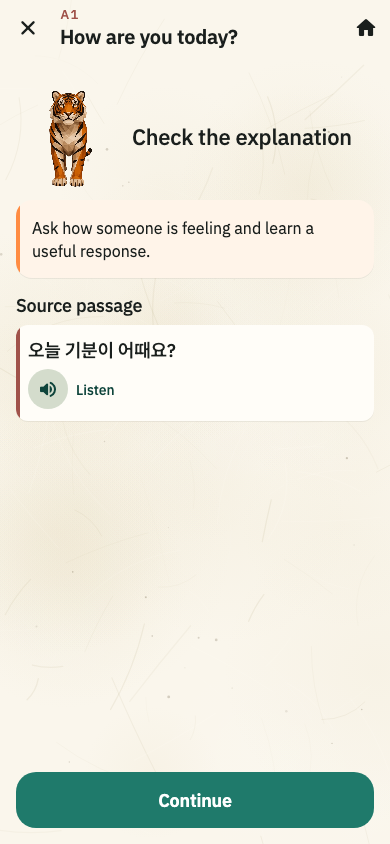
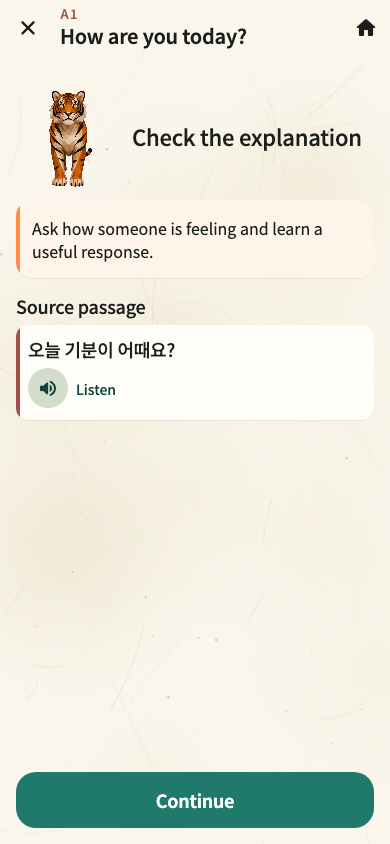
style(type): use Noto Sans KR across Korean English and German UI

diff --git a/test/font_bundle_guard_test.dart b/test/font_bundle_guard_test.dart
@@ -4,32 +4,33 @@ import 'dart:typed_data';
 import 'package:flutter_test/flutter_test.dart';
 import 'package:ko_lernen_app/widgets/sori/tokens.dart';
 
-/// 라틴 UI와 한글 폴백의 글리프가 실제 번들에 있는지 검사한다.
+/// 앱의 단일 Noto Sans KR 번들에 라틴·한글 글리프가 모두 있는지 검사한다.
 ///
 /// 2026-08-19 발견: `PretendardStd-*.otf` 5개가 라틴 전용 서브셋이라 한글 글리프가
 /// 0개였고, 한국어 전부가 OS 폴백 폰트로 그려지고 있었다. pubspec 주석은
 /// "한국어 모던 산세리프"라고 적혀 있었다. 의존성 없이 OTF `cmap`(format 4/12)을
-/// 직접 읽어 Plex의 독일어와 Noto의 완성형 한글을 검사한다.
+/// 직접 읽어 독일어와 완성형 한글을 검사한다.
 void main() {
-  test('Latin UI uses Plex and Korean falls back to bundled Noto', () {
-    expect(SoriFonts.sans, 'IBMPlexSans');
+  test('Korean, German and English UI use one bundled Noto face', () {
+    expect(SoriFonts.sans, 'NotoSansKR');
     expect(SoriFonts.korean, 'NotoSansKR');
     expect(SoriFonts.culture, SoriFonts.korean);
-    expect(SoriFonts.fallback, [SoriFonts.korean]);
+    expect(SoriFonts.fallback, isEmpty);
   });
 
-  test('pubspec 폰트는 독일어와 한글 폴백 글리프를 포함한다', () {
+  test('pubspec 단일 폰트는 독일어와 한글 글리프를 포함한다', () {
     final pubspec = File('pubspec.yaml').readAsStringSync();
     final assets = RegExp(
       r'asset:\s*(assets/fonts/\S+\.(?:otf|ttf))',
     ).allMatches(pubspec).map((m) => m.group(1)!).toList();
-    expect(assets, isNotEmpty, reason: 'pubspec fonts: 블록이 비어 있다');
-    expect(
-      assets,
-      contains('assets/fonts/IBMPlexSans/IBMPlexSans-Variable.ttf'),
-    );
-    expect(assets, contains('assets/fonts/NotoSansKR/NotoSansKR-Variable.ttf'));
+    expect(assets, ['assets/fonts/NotoSansKR/NotoSansKR-Variable.ttf']);
     const requiredLatin = <String, int>{
+      'A': 0x41,
+      'a': 0x61,
+      'Z': 0x5A,
+      'z': 0x7A,
+      '0': 0x30,
+      '9': 0x39,
       'Ä': 0xC4,
       'ä': 0xE4,
       'Ö': 0xD6,
@@ -46,17 +47,9 @@ void main() {
           .map((e) => e.key)
           .toList();
       expect(missing, isEmpty, reason: '$asset 에 글리프 없음: $missing');
-      if (asset.contains('NotoSansKR')) {
-        expect(cps, containsAll([0x3131, 0xAC00, 0xD7A3]));
-        final hangul = cps.where((c) => c >= 0xAC00 && c <= 0xD7A3).length;
-        expect(hangul, 11172, reason: '$asset 한글 음절 $hangul/11172');
-      } else if (asset.contains('IBMPlexSans')) {
-        expect(
-          cps.contains(0xAC00),
-          isFalse,
-          reason: '한글은 명시한 Noto fallback으로 렌더되어야 한다',
-        );
-      }
+      expect(cps, containsAll([0x3131, 0xAC00, 0xD7A3]));
+      final hangul = cps.where((c) => c >= 0xAC00 && c <= 0xD7A3).length;
+      expect(hangul, 11172, reason: '$asset 한글 음절 $hangul/11172');
     }
   });
 }

diff --git a/lib/widgets/sori/tokens.dart b/lib/widgets/sori/tokens.dart
@@ -570,11 +570,11 @@ class SoriMotion {
 }
 
 // ─────────────────────────────────────────────────────────────────────────
-// TEXT — IBM Plex Sans(EN/DE) + Noto Sans KR(KO) 중앙 TextStyle 토큰
+// TEXT — Noto Sans KR(KO/EN/DE) 중앙 TextStyle 토큰
 // ─────────────────────────────────────────────────────────────────────────
 /// 앱 폰트 패밀리 상수 — 역할로만 선택한다.
-/// - [sans] IBM Plex Sans: DE/EN UI와 라틴 문자의 기본 폰트.
-/// - [korean] Noto Sans KR: 같은 문장 안의 한글 폴백과 한국어 문화 제목.
+/// - [sans] Noto Sans KR: KO/DE/EN UI와 학습 문장의 공용 폰트.
+/// - [korean] Noto Sans KR: 한국어 학습 글자와 문화 제목.
 ///
 /// **2026-08-19 교체**: 이전 PretendardStd 는 라틴 전용 서브셋이라 한글 글리프가
 /// 0개였다. 한국어는 전부 OS 폴백(맑은 고딕·제조사 기본·Apple SD Gothic)으로
@@ -582,17 +582,16 @@ class SoriMotion {
 /// 한글에서 처음으로 성립한다. `test/font_bundle_guard_test.dart` 가 번들 폰트의
 /// 한글·독일어 글리프를 검사해 재발을 막는다.
 ///
-/// **2026-09-28**: KO는 Noto Sans KR, DE/EN은 IBM Plex Sans로 묶는다.
-/// Plex Sans 라틴 파일에 한글이 없으므로 폴백을 명시해야 기기 기본 서체로
-/// 새지 않는다.
+/// **2026-09-30**: Noto Sans KR 한 파일이 한글·영어·독일어 문자를 모두
+/// 포함하므로 세 언어를 같은 서체로 그린다.
 class SoriFonts {
   SoriFonts._();
-  static const String sans = 'IBMPlexSans';
+  static const String sans = 'NotoSansKR';
   static const String korean = 'NotoSansKR';
   // Learning cards name this role explicitly; both roles use the same face.
   static const String learningKorean = korean;
   static const String culture = korean;
-  static const List<String> fallback = [korean];
+  static const List<String> fallback = [];
 }
 
 /// Context-free type spec — size/weight/letterSpacing/height만, 색·family

diff --git a/test/support/real_fonts.dart b/test/support/real_fonts.dart
@@ -3,7 +3,7 @@ import 'dart:typed_data';
 
 import 'package:flutter/services.dart' show FontLoader;
 
-/// Loads Hangul Sori's real UI fonts (IBM Plex Sans + Noto Sans KR, with
+/// Loads Hangul Sori's real UI font (Noto Sans KR, with
 /// optional Material Icons) into the test binding.
 ///
 /// §W-F3 root cause: `flutter_test`'s default binding renders every glyph as
@@ -11,7 +11,7 @@ import 'package:flutter/services.dart' show FontLoader;
 /// every character, in every script, at the same width. For layout-budget
 /// assertions (fold checks, line-count checks) that inflates measured text
 /// width/height by roughly 2-3× versus the real, proportionally-spaced
-/// IBM Plex Sans / Noto Sans KR faces, which silently invent a taller header and
+/// Noto Sans KR face, which silently invents a taller header and
 /// wrongly implies the layout doesn't fit. Any test that measures rects or
 /// line counts against real copy must call this first — a rendering
 /// smoke/existence test (does it build, is a key present) does not need it.
@@ -51,7 +51,6 @@ Future<void> loadSoriRealFonts({bool materialIcons = false}) async {
 
 Future<void> _loadTextFonts() async {
   for (final (family, path) in const [
-    ('IBMPlexSans', 'assets/fonts/IBMPlexSans/IBMPlexSans-Variable.ttf'),
     ('NotoSansKR', 'assets/fonts/NotoSansKR/NotoSansKR-Variable.ttf'),
   ]) {
     final loader = FontLoader(family);

diff --git a/docs/mockups/font-comparison-2026-09-28/styles.css b/docs/mockups/font-comparison-2026-09-28/styles.css
@@ -89,10 +89,10 @@ button { font: inherit; cursor: pointer; }
 .phone.pretendard { font-family: Pretendard, sans-serif; }
 .phone.noto { font-family: NotoSansKR, sans-serif; }
 .phone.plex { font-family: IBMPlexSans, NotoSansKR, sans-serif; }
-.phone.plex .hero-title { font-weight: 500; }
-.phone.plex .hero-description, .phone.plex .translation, .phone.plex .hint, .phone.plex .secondary-card .translated { font-weight: 400; }
-.phone.plex .phrase-korean, .phone.plex .secondary-card .ko, .phone.plex .section-heading strong, .phone.plex .app-brand { font-weight: 500; }
-.phone.plex .continue { font-weight: 600; }
+.phone:is(.plex, .noto) .hero-title { font-weight: 500; }
+.phone:is(.plex, .noto) .hero-description, .phone:is(.plex, .noto) .translation, .phone:is(.plex, .noto) .hint, .phone:is(.plex, .noto) .secondary-card .translated { font-weight: 400; }
+.phone:is(.plex, .noto) .phrase-korean, .phone:is(.plex, .noto) .secondary-card .ko, .phone:is(.plex, .noto) .section-heading strong, .phone:is(.plex, .noto) .app-brand { font-weight: 500; }
+.phone:is(.plex, .noto) .continue { font-weight: 600; }
 .phone.current .hero-title { font-family: MaruBuri, serif; }
 
 .status { height: 37px; display: flex; align-items: center; justify-content: space-between; padding: 0 26px; color: #273b34; font-size: 12px; font-weight: 700; }

diff --git a/test/five_tabs_design_preview_test.dart b/test/five_tabs_design_preview_test.dart
@@ -4,6 +4,7 @@ import 'dart:ui' as ui;
 import 'package:flutter/material.dart';
 import 'package:flutter/rendering.dart';
 import 'package:flutter_test/flutter_test.dart';
+import 'package:ko_lernen_app/widgets/sori/tokens.dart';
 import 'support/real_fonts.dart';
 import 'support/five_tabs_preview/preview.dart';
 
@@ -126,7 +127,7 @@ Future<void> board(
     text: TextSpan(
       text: heading ?? name,
       style: const TextStyle(
-        fontFamily: 'NotoSansKR',
+        fontFamily: SoriFonts.sans,
         fontSize: 30,
         color: Color(0xFF1A1F1D),
       ),
@@ -139,7 +140,7 @@ Future<void> board(
       text:
           'DESIGN REVIEW · Real bundled art · Illustrative states · No account or reward writes',
       style: TextStyle(
-        fontFamily: 'IBMPlexSans',
+        fontFamily: 'NotoSansKR',
         fontSize: 14,
         color: Color(0xFF5C6660),
       ),
@@ -164,7 +165,7 @@ Future<void> board(
       text: TextSpan(
         text: files[i],
         style: const TextStyle(
-          fontFamily: 'IBMPlexSans',
+          fontFamily: SoriFonts.sans,
           fontSize: 15,
           color: Color(0xFF1A1F1D),
         ),

diff --git a/test/game_layout_test.dart b/test/game_layout_test.dart
@@ -24,7 +24,7 @@ import 'package:ko_lernen_app/widgets/sori/quiz_choice.dart';
 /// 800×1280 에서 Blitz-Paare 는 화면의 63%, Satz bauen 은 57% 가 빈 공간이었고,
 /// 보기 버튼은 폰·태블릿 모두 42~53dp 로 **완전히 동일**했다. `SoriStudyScale`
 /// 이 붙어 있어도 그건 본문 글씨만 키우고 버튼 높이엔 안 걸린다.
-/// 앱이 실제로 쓰는 IBM Plex Sans와 Noto Sans KR을 로드한다.
+/// 앱이 실제로 쓰는 Noto Sans KR을 로드한다.
 ///
 /// ⛔ 이게 없으면 `flutter test` 는 **모든 글자를 같은 폭의 사각형으로 그리는
 /// 테스트 폰트**를 쓴다. 글자 폭 기반 판정(`didExceedMaxLines`)이 실기기와

diff --git a/docs/mockups/font-comparison-2026-09-28/app.js b/docs/mockups/font-comparison-2026-09-28/app.js
@@ -1,6 +1,6 @@
 const variants = [
-  { id: 'noto', label: 'Noto Sans KR 전체', note: '이전 적용안 · 굵은 위계' },
-  { id: 'plex', label: 'IBM Plex Sans + Noto Sans KR', note: '독일어·영어 + 한국어', recommended: true },
+  { id: 'noto', label: 'Noto Sans KR 전체', note: '현재 앱 적용 · 한 서체', recommended: true },
+  { id: 'plex', label: 'IBM Plex Sans + Noto Sans KR', note: '이전 적용안 · 언어별 조합' },
   { id: 'current', label: '기존', note: 'Paperlogy · 제목 Maru Buri' },
   { id: 'pretendard', label: 'Pretendard', note: '한국어 · 라틴어 한 서체' },
 ];

diff --git a/docs/mockups/font-comparison-2026-09-28/index.html b/docs/mockups/font-comparison-2026-09-28/index.html
@@ -63,7 +63,7 @@
         <span>② IBM Plex Sans + Noto Sans KR</span>
         <span>③ 이전 Paperlogy + Maru Buri</span>
         <span>④ Pretendard</span>
-        <p>앱의 라틴 문자에는 IBM Plex Sans, 한국어에는 Noto Sans KR을 사용합니다.</p>
+        <p>현재 앱의 한국어·영어·독일어는 Noto Sans KR 한 서체를 사용합니다.</p>
       </footer>
     </main>
     <script src="app.js"></script>

diff --git a/test/support/five_tabs_preview/preview.dart b/test/support/five_tabs_preview/preview.dart
@@ -127,8 +127,7 @@ class _PreviewState extends State<FiveTabsPreview> {
   }) => Text(
     s,
     style: TextStyle(
-      fontFamily: serif ? 'NotoSansKR' : 'IBMPlexSans',
-      fontFamilyFallback: const ['NotoSansKR'],
+      fontFamily: serif ? SoriFonts.culture : SoriFonts.sans,
       fontSize: size,
       height: 1.35,
       fontWeight: bold ? FontWeight.w600 : FontWeight.w400,

diff --git a/docs/mockups/font-comparison-2026-09-28/README.md b/docs/mockups/font-comparison-2026-09-28/README.md
@@ -4,12 +4,12 @@
 
 ## 선택과 적용
 
-GitHub의 [`nextlevelbuilder/ui-ux-pro-max-skill`](https://github.com/nextlevelbuilder/ui-ux-pro-max-skill)을 설치해 `typography`, `ux`, `flutter` 규칙을 참고했다. 같은 내용과 화면 폭에서 기존 Paperlogy+Maru Buri, Pretendard, Noto Sans KR 단독, IBM Plex Sans + Noto Sans KR을 비교했다. 현재 Flutter 앱은 **독일어·영어에 IBM Plex Sans, 한국어에 Noto Sans KR**을 쓴다. 본문은 Regular(400), 제목과 카드 문장은 Medium(500), 주요 버튼은 SemiBold(600)로 낮췄다. 한글소리 텍스트 로고의 자간도 넓혔다.
+GitHub의 [`nextlevelbuilder/ui-ux-pro-max-skill`](https://github.com/nextlevelbuilder/ui-ux-pro-max-skill)을 설치해 `typography`, `ux`, `flutter` 규칙을 참고했다. 같은 내용과 화면 폭에서 기존 Paperlogy+Maru Buri, Pretendard, Noto Sans KR 단독, IBM Plex Sans + Noto Sans KR을 비교했다. 2026-09-30 선택에 따라 현재 Flutter 앱은 **한국어·독일어·영어 모두 Noto Sans KR**을 쓴다. 본문은 Regular(400), 제목과 카드 문장은 Medium(500), 주요 버튼은 SemiBold(600)로 구분한다. 한글소리 텍스트 로고의 자간도 넓혔다.
 
 비교 목업의 공항 문장은 `assets/data/scenarios_a1.json`에서 가져왔다. 실제 Flutter 학습 화면에서는 본문·다음 대화·피드백의 문장 카드 전체를 눌러 소리를 듣는다. 재생 중 소리 표시와 카드 강조가 반응하고, 선택지·진행 게이지·호랑이 동작·정답 피드백·완료 장면이 학습 단계에 따라 바뀐다. 기존 학습 흐름·진행 저장·한국어 음성 서비스를 재사용한다. 움직임 줄이기 설정에서는 반복 모션을 멈춘다.
 
 ## 글꼴 검증
 
-IBM Plex Sans 가변 파일 `assets/fonts/IBMPlexSans/IBMPlexSans-Variable.ttf`와 Noto Sans KR 가변 파일 `assets/fonts/NotoSansKR/NotoSansKR-Variable.ttf` 및 각각의 OFL을 앱 저장소에 동봉했다. Plex Sans에 독일어 `ÄäÖöÜüß`, Noto Sans KR에 한글 완성형 11,172자가 있음을 폰트 cmap으로 확인했다. Plex Sans 라틴 파일에는 한글이 없어 Flutter의 글꼴 폴백을 Noto Sans KR로 명시했다. 영어·독일어 390px Flutter 캡처와 320px 큰 글자 위젯 테스트로 학습 화면 배치를 확인한다.
+Noto Sans KR 가변 파일 `assets/fonts/NotoSansKR/NotoSansKR-Variable.ttf`와 OFL을 앱에 동봉했다. 한글 완성형 11,172자와 독일어 `ÄäÖöÜüß`, 영어 글리프가 모두 있음을 폰트 cmap으로 확인했다. IBM Plex Sans 파일은 이전 시안과 비교할 수 있도록 저장소에 남기지만 앱 번들에서는 제외했다. 영어·독일어 390px Flutter 캡처와 320px 큰 글자 위젯 테스트로 학습 화면 배치를 확인한다.
 
 원본 출처: [IBM Plex 공식 저장소](https://github.com/IBM/plex), [Noto Sans KR 공식 저장소](https://github.com/google/fonts/tree/main/ofl/notosanskr), [Pretendard 공식 저장소](https://github.com/orioncactus/pretendard). 비교용 원본과 라이선스는 `fonts/`, 실제 앱 번들은 `assets/fonts/`에 있다.

diff --git a/docs/HANGUL_SORI_DESIGN_TOKENS.md b/docs/HANGUL_SORI_DESIGN_TOKENS.md
@@ -209,12 +209,12 @@ SoriRadius.brPill // BorderRadius.all(Radius.circular(999))
 
 | 토큰 | 폰트 | 번들 웨이트 | 용도 |
 |---|---|---|---|
-| `SoriFonts.sans` | IBM Plex Sans | variable | DE/EN UI, 제목·본문·숫자 |
+| `SoriFonts.sans` | Noto Sans KR | variable | KO/DE/EN UI, 제목·본문·숫자 |
 | `SoriFonts.korean` / `learningKorean` | Noto Sans KR | variable | 자모·어휘·문장 등 한국어 학습 글자 |
-| `SoriFonts.fallback` | Noto Sans KR | variable | DE/EN·한국어 혼합 문장의 한글 폴백 |
+| `SoriFonts.fallback` | 없음 | — | 공용 번들에 세 언어 글리프가 있어 별도 폴백이 필요 없음 |
 | `SoriFonts.culture` | Noto Sans KR | variable | 짧은 한국어 문화 제목 |
 
-> 문화 제목도 같은 한국어 폰트로 그려 서체 혼용을 줄인다. DE/EN은 IBM Plex Sans를 기본으로 하고, 한글은 Noto Sans KR로 폴백한다.
+> Noto Sans KR 한 파일에 한글 완성형·영어·독일어 글리프가 모두 들어 있다. 전체 앱에서 서체를 통일하고 역할별 굵기는 구분한다.
 
 #### SoriTextTheme 프리셋 (발췌, 2026-09-03 §A3 재정의)
 | 토큰 | 크기 | 굵기 | 폰트 | 용도 |
@@ -233,7 +233,7 @@ SoriRadius.brPill // BorderRadius.all(Radius.circular(999))
 | `tt.chromeTitle` | 20 | w600 | sans | 앱바 크롬 전용(`SoriAppBar`, §A4) |
 | `tt.numeral` | 30 | w500 | sans (tabular) | 스트릭·XP 큰 숫자 |
 
-> 2026-09-28: DE/EN 헤드라인은 IBM Plex Sans, 한국어 학습 글자와 문화 제목은 Noto Sans KR로 그린다.
+> 2026-09-30: KO/DE/EN 헤드라인과 학습 글자를 Noto Sans KR로 그린다.
 
 **가드 테스트** — 위반 재발 방지:
 - `test/typography_guard_test.dart` — `FontWeight.w800`/`w900` 래칫(내려가기만 한다), `fontFamily: '...'` 문자열 리터럴 0.

diff --git a/docs/CONTENT_UI_BIBLE.md b/docs/CONTENT_UI_BIBLE.md
@@ -16,7 +16,7 @@
 3. **하트와 보관은 다른 기능이다.** 더블탭/`♡` = 좋아요(감정, 나중에 놀이). 책갈피 = 단어장 보관(공부용 아카이브). 둘을 한 동작으로 합치지 않는다. 상세 §12.
 4. **한 장 = 한 화면.** 기기 높이 안에서 본문이 잘리지 않게 담고, 다음 장은 아래로 넘긴다. 플레이어와 책장/규칙 패널을 같은 화면에 겹치지 않는다.
 5. **콘텐츠 플레이어에서 네모 카드(hero `SoriCard`)를 뺀다.** 한지 배경 위에 글과 소리가 바로 앉는다. 카드는 허브·목록·선택지처럼 *고르는* 자리에만 남긴다.
-6. **번들 폰트는 IBM Plex Sans와 Noto Sans KR.** `SoriFonts.sans`는 DE/EN UI와 제목, `SoriFonts.learningKorean`은 한국어 학습 글자, `SoriFonts.fallback`은 혼합 문장의 한글에 쓴다. 문화 제목도 Noto Sans KR 토큰을 쓴다. `fontFamily` 문자열 하드코딩은 금지하고 토큰을 사용한다. 위계는 크기·굵기로 만든다. (2026-09-28 Jin 선택)
+6. **번들 폰트는 Noto Sans KR 하나.** `SoriFonts.sans`는 KO/DE/EN UI와 제목, `SoriFonts.learningKorean`은 한국어 학습 글자에 쓴다. 두 역할은 같은 서체를 가리킨다. `fontFamily` 문자열 하드코딩은 금지하고 토큰을 사용한다. 위계는 크기·굵기로 만든다. (2026-09-30 Jin 선택)
 7. **`i` 대신 `?`가 뒤집기다.** 한 번 탭하면 뜻/뒷면이 한지 위에서 뒤집힌다. 정보 시트가 아니다.
 8. **공유는 1등 동작이다.** 시스템 공유 + 생성된 이야기 이미지. 화면 스크린샷이나 검정 테두리 디지털 카드가 아니다. 이미지 3안은 §13. **잠금: A 두루마리.** B는 장면이 단어를 잡아먹을 위험, C는 너무 조용해서 기각.
 
